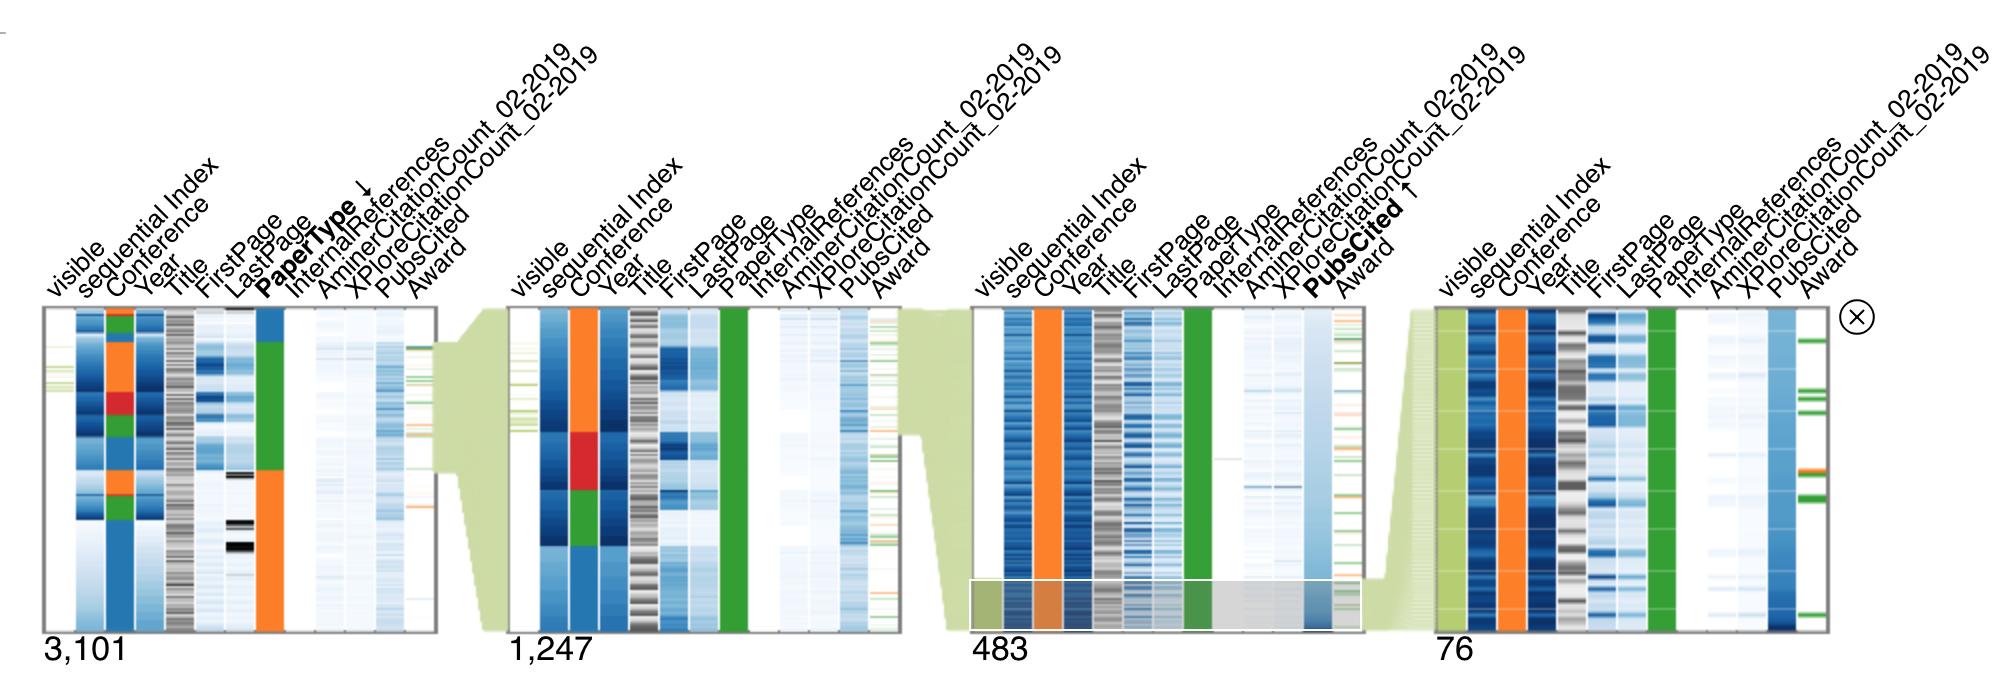
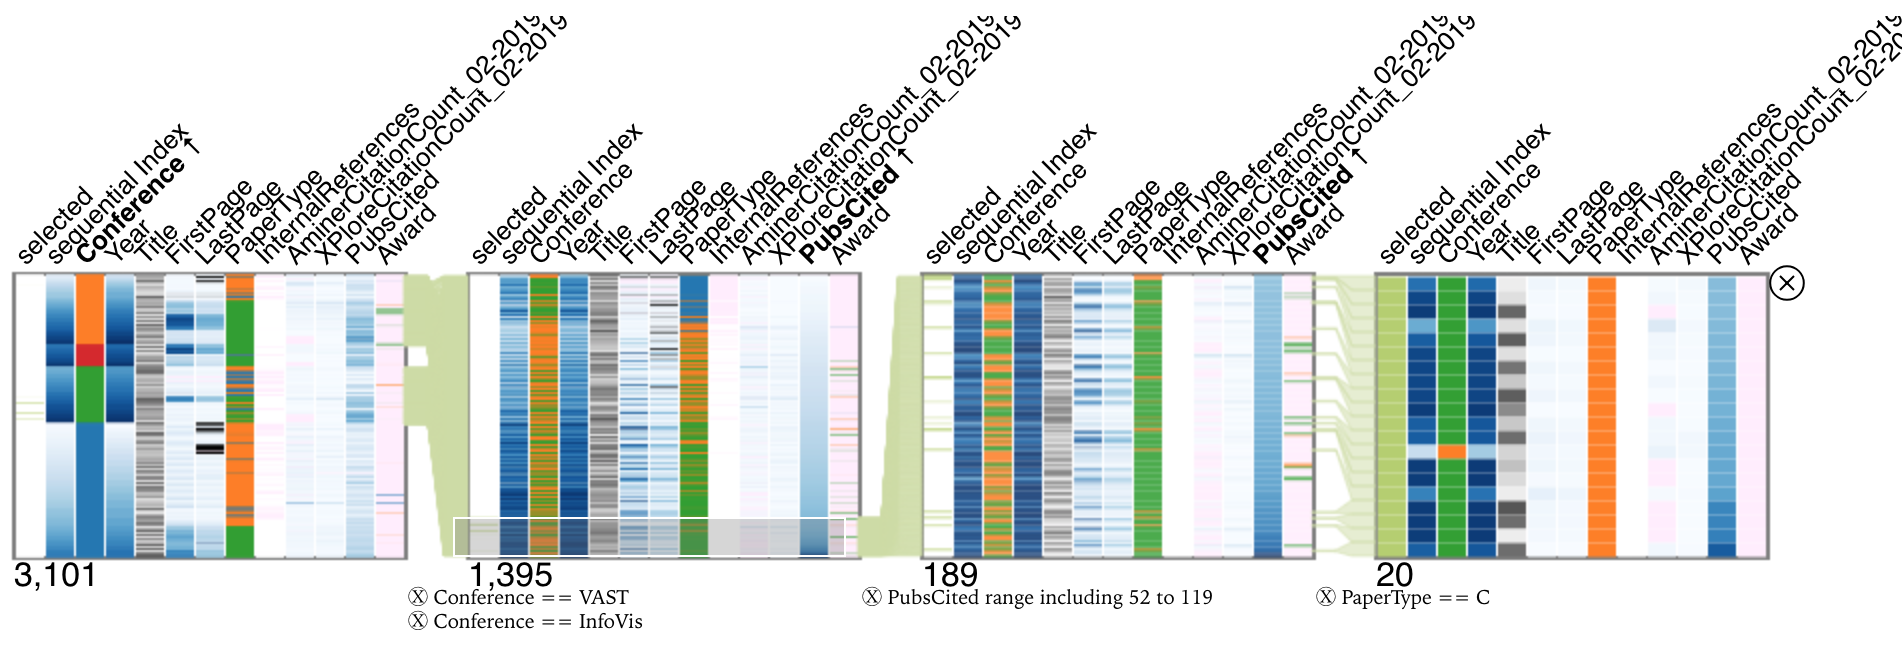
New intro gif

diff --git a/rollup.config.js b/rollup.config.js
@@ -1,7 +1,7 @@
 import ascii from "rollup-plugin-ascii";
 import node from "rollup-plugin-node-resolve";
 import commonjs from "rollup-plugin-commonjs";
-// import {terser} from "rollup-plugin-terser";
+import {terser} from "rollup-plugin-terser";
 // import babel from "rollup-plugin-babel";
 import * as meta from "./package.json";
 
@@ -33,7 +33,7 @@ export default [
       format: "umd",
       indent: false,
       name: "navio",
-      sourcemap: true,
+      // sourcemap: true,
       globals: {
         d3:"d3",
         "d3-scale-chromatic":"d3ScaleChromatic",
@@ -64,7 +64,35 @@ export default [
       file: meta.module,
       format: "esm",
       indent: false,
-      sourcemap: true,
+      // sourcemap: true,
+      name: "navio",
+      globals: {
+        d3:"d3",
+        "d3-scale-chromatic":"d3ScaleChromatic",
+        "popper.js":"Popper"
+      }
+    }
+  },
+  {
+    input: "src/index.js",
+    plugins: [
+      node({
+        jsxnext: true,
+        main: true,
+        browser: true
+      }),
+      ascii(),
+      terser({output: {preamble: copyright}})
+    ],
+    external: ["d3",
+      "d3-scale-chromatic",
+      "popper.js"
+    ],
+    output: {
+      extend: true,
+      file: "dist/navio.min.js",
+      format: "umd",
+      indent: false,
       name: "navio",
       globals: {
         d3:"d3",

diff --git a/README.md b/README.md
@@ -1,6 +1,6 @@
 <h1 align="center">
   <br>
-  <a href="https://observablehq.com/@john-guerra/navio-load"><img src="imgs/navio_thumb_v3.gif" alt="Moma Explorer" max-height="300"></a>
+  <a href="https://observablehq.com/@john-guerra/navio-load"><img src="imgs/navio_thumb_v4.gif" alt="Moma Explorer" max-height="300"></a>
   Navio
   <br>
 </h1>
